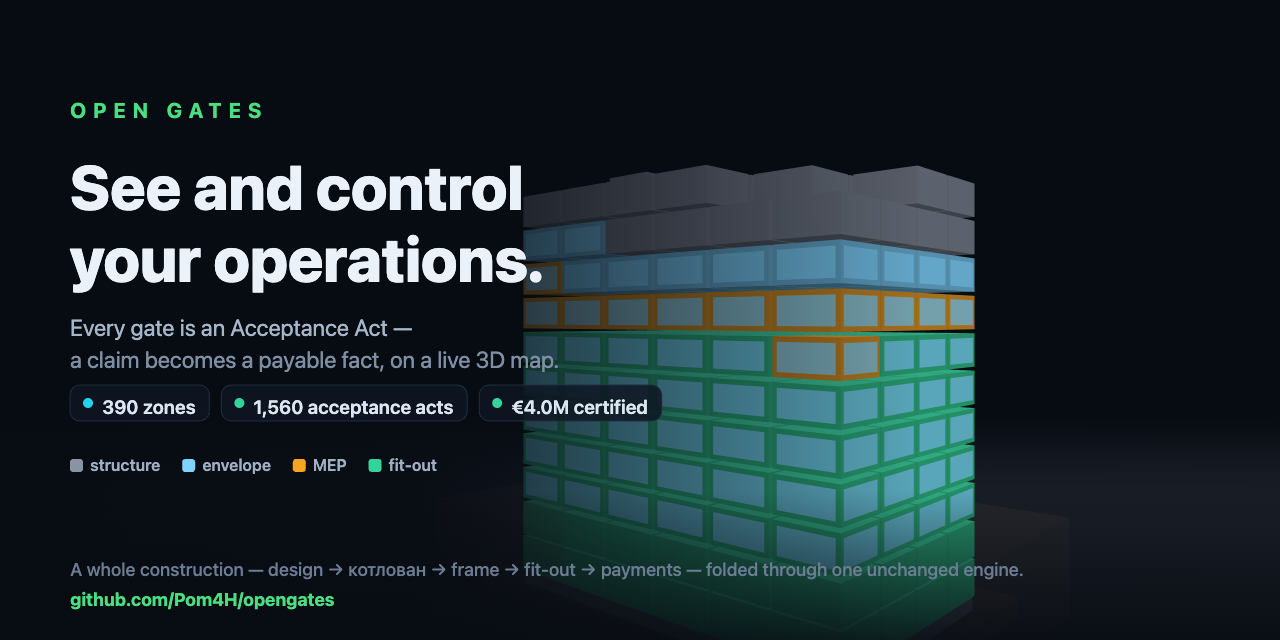
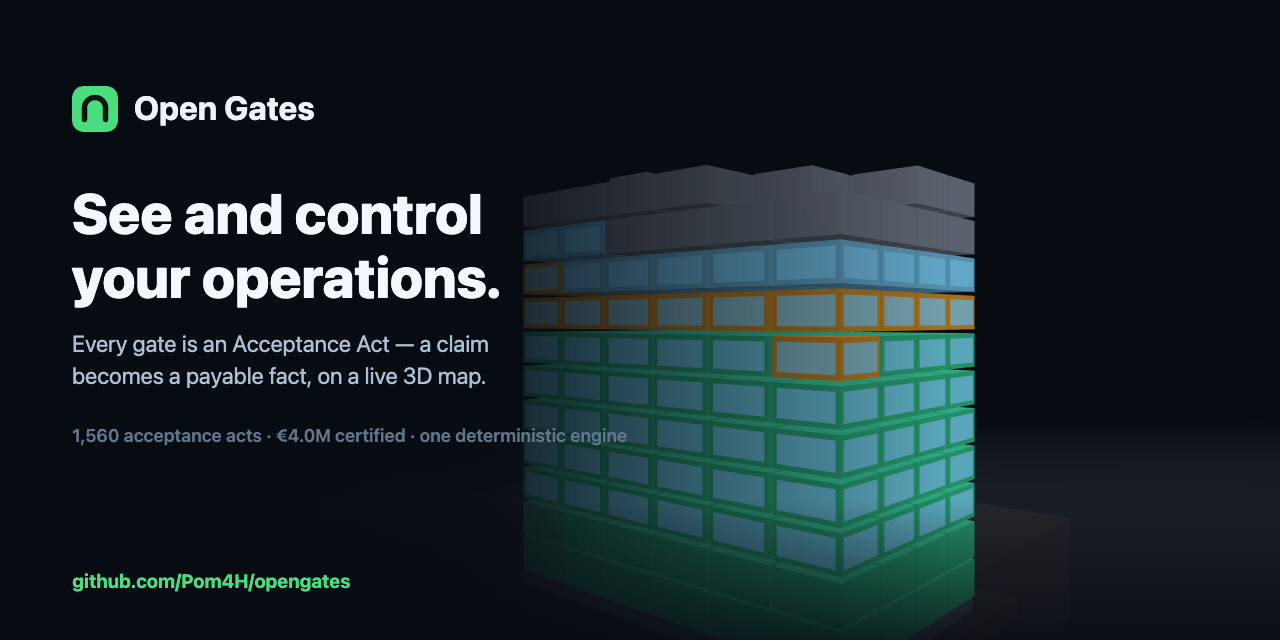
refactor(social): apply the successful-OSS social-card pattern
Researched what works on shared open-source repos (GitHub's own guidance + the
"good-looking-repository" reference + OG-image guides): the repo NAME must be
large and instantly readable, one short tagline, one strong non-stock visual,
high contrast, safe margins — not a wall of text.

Rework the card accordingly: a logo mark + bold "Open Gates" wordmark now lead
(was a tiny eyebrow); the tagline is the hero line; one value line and one
understated proof line replace the three stat chips + the four-colour legend +
the long footer; the 3D building stays as the product visual; safe left/edge
margins. Regenerated docs/media/social-preview.png (1280×640).

diff --git a/viz/social/index.html b/viz/social/index.html
@@ -88,72 +88,67 @@
       compose(renderer.domElement);
 
       // ---- compose the 1280×640 card (3D + scrim + text) ----
+      // Pattern drawn from successful OSS social cards: dominant logo + wordmark
+      // (instantly readable repo name), ONE hero tagline, one value line, one
+      // understated proof line, a strong product visual, safe margins.
       function compose(gl) {
         const cv = document.getElementById("card"), ctx = cv.getContext("2d");
         ctx.drawImage(gl, 0, 0, W, H);
 
-        // left scrim for legibility
-        let g = ctx.createLinearGradient(0, 0, W * 0.72, 0);
-        g.addColorStop(0, "rgba(7,11,18,0.97)"); g.addColorStop(0.45, "rgba(7,11,18,0.86)"); g.addColorStop(1, "rgba(7,11,18,0)");
+        // left + bottom scrim so the text stays crisp over the 3D
+        let g = ctx.createLinearGradient(0, 0, W * 0.74, 0);
+        g.addColorStop(0, "rgba(7,11,18,0.98)"); g.addColorStop(0.5, "rgba(7,11,18,0.88)"); g.addColorStop(1, "rgba(7,11,18,0)");
         ctx.fillStyle = g; ctx.fillRect(0, 0, W, H);
-        g = ctx.createLinearGradient(0, H, 0, H - 150);
-        g.addColorStop(0, "rgba(7,11,18,0.85)"); g.addColorStop(1, "rgba(7,11,18,0)");
+        g = ctx.createLinearGradient(0, H, 0, H - 140);
+        g.addColorStop(0, "rgba(7,11,18,0.8)"); g.addColorStop(1, "rgba(7,11,18,0)");
         ctx.fillStyle = g; ctx.fillRect(0, 0, W, H);
 
-        const X = 70;
+        const X = 72; // safe left margin (platforms crop toward 1.91:1; GitHub rounds corners)
         ctx.textBaseline = "alphabetic";
-        // eyebrow
-        ctx.fillStyle = "#4ade80"; ctx.font = `700 21px ${FONT}`; ctx.letterSpacing = "7px";
-        ctx.fillText("OPEN GATES", X, 118); ctx.letterSpacing = "0px";
-        // headline
-        ctx.fillStyle = "#eaf1f8"; ctx.font = `800 62px ${FONT}`;
-        ctx.fillText("See and control", X, 210);
-        ctx.fillText("your operations.", X, 282);
-        // subtitle
-        ctx.fillStyle = "#a6b6c9"; ctx.font = `400 23px ${FONT}`;
-        ctx.fillText("Every gate is an Acceptance Act —", X, 336);
-        ctx.fillStyle = "#7e8ea3";
-        ctx.fillText("a claim becomes a payable fact, on a live 3D map.", X, 368);
 
-        // stat chips
+        // brand row — logo mark + wordmark (the #1 thing: which repo is this)
+        drawLogo(ctx, X, 86, 46);
+        ctx.fillStyle = "#eef3f9"; ctx.font = `700 33px ${FONT}`;
+        ctx.fillText("Open Gates", X + 62, 120);
+
+        // hero tagline
+        ctx.fillStyle = "#f4f8fc"; ctx.font = `800 56px ${FONT}`;
+        ctx.fillText("See and control", X, 234);
+        ctx.fillText("your operations.", X, 298);
+
+        // one value line
+        ctx.fillStyle = "#aebfd2"; ctx.font = `400 23px ${FONT}`;
+        ctx.fillText("Every gate is an Acceptance Act — a claim", X, 352);
+        ctx.fillText("becomes a payable fact, on a live 3D map.", X, 384);
+
+        // one understated proof line
         const M = ledger ? (ledger.contractValue / 1e6).toFixed(1) : "4.0";
-        let cx = X, cy = 414;
-        cx = chip(ctx, cx, cy, "390 zones", "#22d3ee");
-        cx = chip(ctx, cx + 12, cy, "1,560 acceptance acts", "#34d399");
-        cx = chip(ctx, cx + 12, cy, `€${M}M certified`, "#34d399");
+        ctx.fillStyle = "#62758b"; ctx.font = `600 18px ${FONT}`;
+        ctx.fillText(`1,560 acceptance acts · €${M}M certified · one deterministic engine`, X, 442);
 
-        // system legend
-        const leg = [["structure", SYS[0].color], ["envelope", SYS[1].color], ["MEP", SYS[2].color], ["fit-out", SYS[3].color]];
-        let lx = X, ly = 470;
-        ctx.font = `600 16px ${FONT}`;
-        for (const [name, col] of leg) {
-          ctx.fillStyle = col; roundRect(ctx, lx, ly - 11, 13, 13, 3); ctx.fill();
-          ctx.fillStyle = "#9fb0c4"; ctx.fillText(name, lx + 20, ly + 1);
-          lx += 20 + ctx.measureText(name).width + 22;
-        }
-
-        // footer
-        ctx.fillStyle = "#6b7c93"; ctx.font = `500 18px ${FONT}`;
-        ctx.fillText("A whole construction — design → котлован → frame → fit-out → payments — folded through one unchanged engine.", X, H - 64);
-        ctx.fillStyle = "#4ade80"; ctx.font = `700 18px ${FONT}`;
-        ctx.fillText("github.com/Pom4H/opengates", X, H - 34);
+        // url
+        ctx.fillStyle = "#4ade80"; ctx.font = `700 19px ${FONT}`;
+        ctx.fillText("github.com/Pom4H/opengates", X, H - 52);
 
         window.__card = cv.toDataURL("image/png");
         window.__ready = true;
       }
 
+      // a small "open gate" mark: two posts + a top arch on a green rounded square
+      function drawLogo(ctx, x, y, s) {
+        ctx.fillStyle = "#4ade80"; roundRect(ctx, x, y, s, s, s * 0.26); ctx.fill();
+        ctx.strokeStyle = "#06170e"; ctx.lineWidth = s * 0.12; ctx.lineCap = "round";
+        const p = s * 0.27, midY = y + s * 0.48;
+        ctx.beginPath();
+        ctx.moveTo(x + p, y + s - p); ctx.lineTo(x + p, midY);
+        ctx.moveTo(x + s - p, y + s - p); ctx.lineTo(x + s - p, midY);
+        ctx.stroke();
+        ctx.beginPath(); ctx.arc(x + s / 2, midY, s / 2 - p, Math.PI, 0); ctx.stroke();
+      }
+
       function roundRect(ctx, x, y, w, h, r) {
         ctx.beginPath(); ctx.moveTo(x + r, y); ctx.arcTo(x + w, y, x + w, y + h, r);
         ctx.arcTo(x + w, y + h, x, y + h, r); ctx.arcTo(x, y + h, x, y, r); ctx.arcTo(x, y, x + w, y, r); ctx.closePath();
-      }
-      function chip(ctx, x, y, label, dot) {
-        ctx.font = `600 19px ${FONT}`;
-        const tw = ctx.measureText(label).width, w = tw + 46, h = 36;
-        ctx.fillStyle = "rgba(14,22,34,0.85)"; roundRect(ctx, x, y - h + 7, w, h, 10); ctx.fill();
-        ctx.strokeStyle = "#1e2d40"; ctx.lineWidth = 1; roundRect(ctx, x, y - h + 7, w, h, 10); ctx.stroke();
-        ctx.fillStyle = dot; ctx.beginPath(); ctx.arc(x + 18, y - h + 7 + h / 2, 5, 0, 7); ctx.fill();
-        ctx.fillStyle = "#dbe6f2"; ctx.fillText(label, x + 32, y);
-        return x + w;
       }
     </script>
   </body>